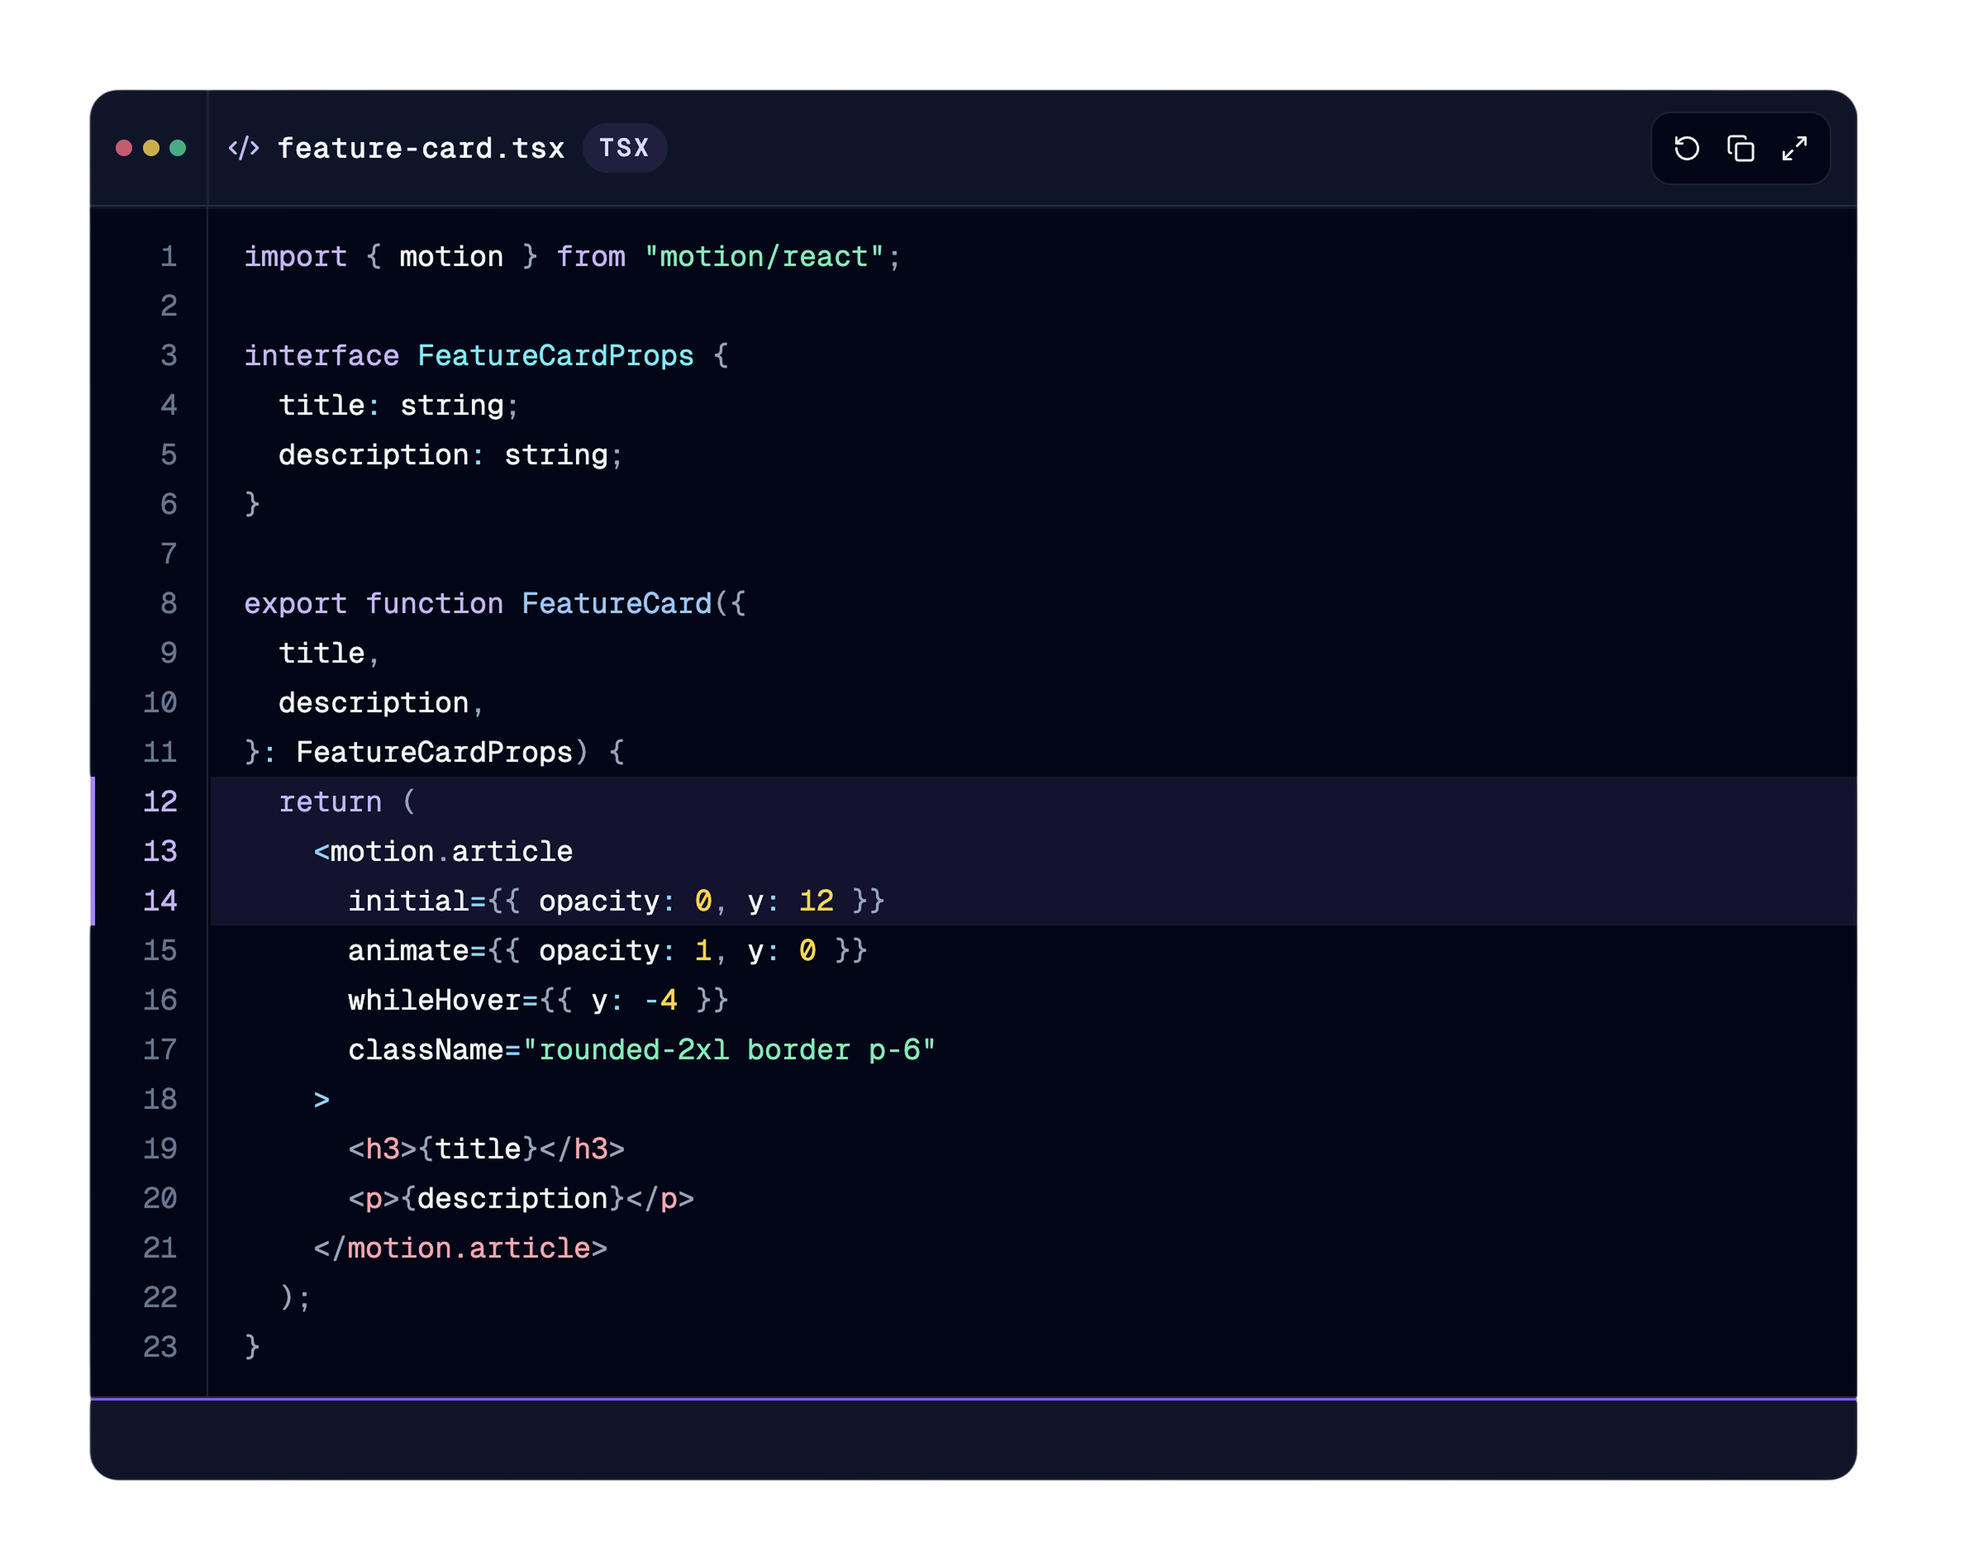
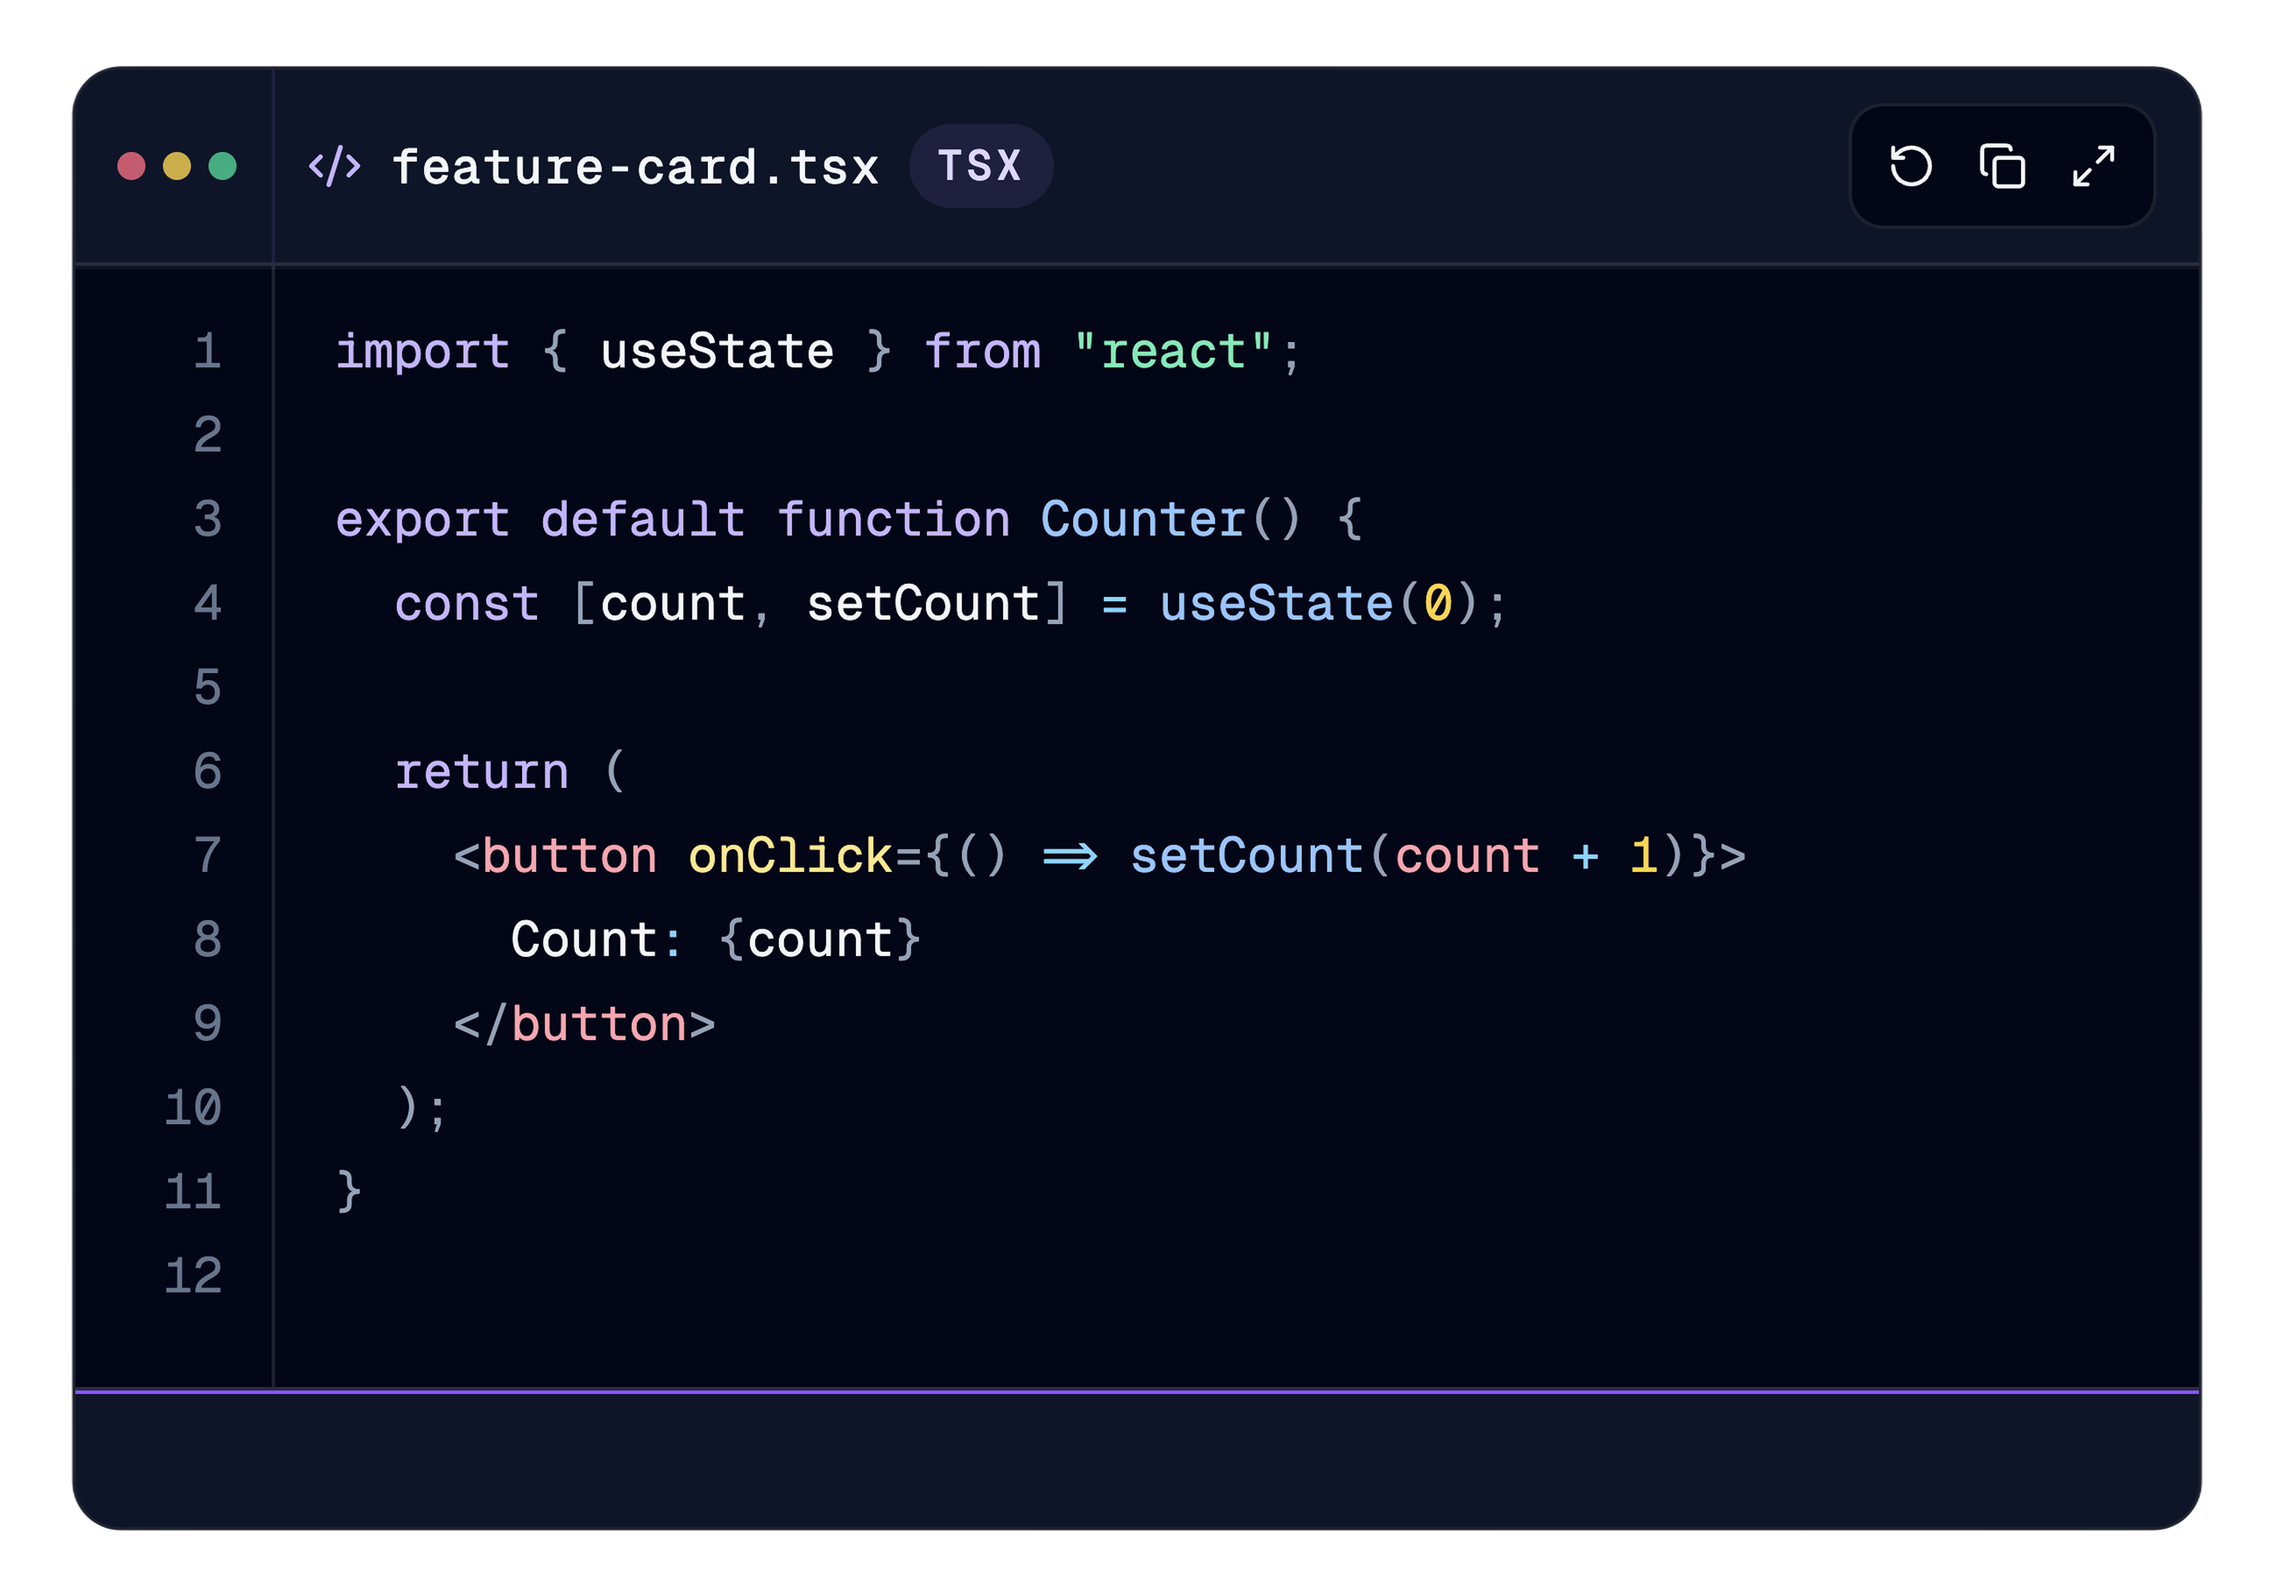
some changes

diff --git a/registry/Data.tsx b/registry/Data.tsx
@@ -68,7 +68,7 @@ export const componentsData: ComponentsData = {
       tags: ["Animation", "Interactive"],
       description: "Code snippets with typing and highlighting effects.",
       image: "/assets/images/showcase/components/animated-code-block.png",
-      imageClassName: "scale-90",
+      imageClassName: "scale-80",
     },
     "cyberpunk-card": {
       title: "Cyberpunk Card",
